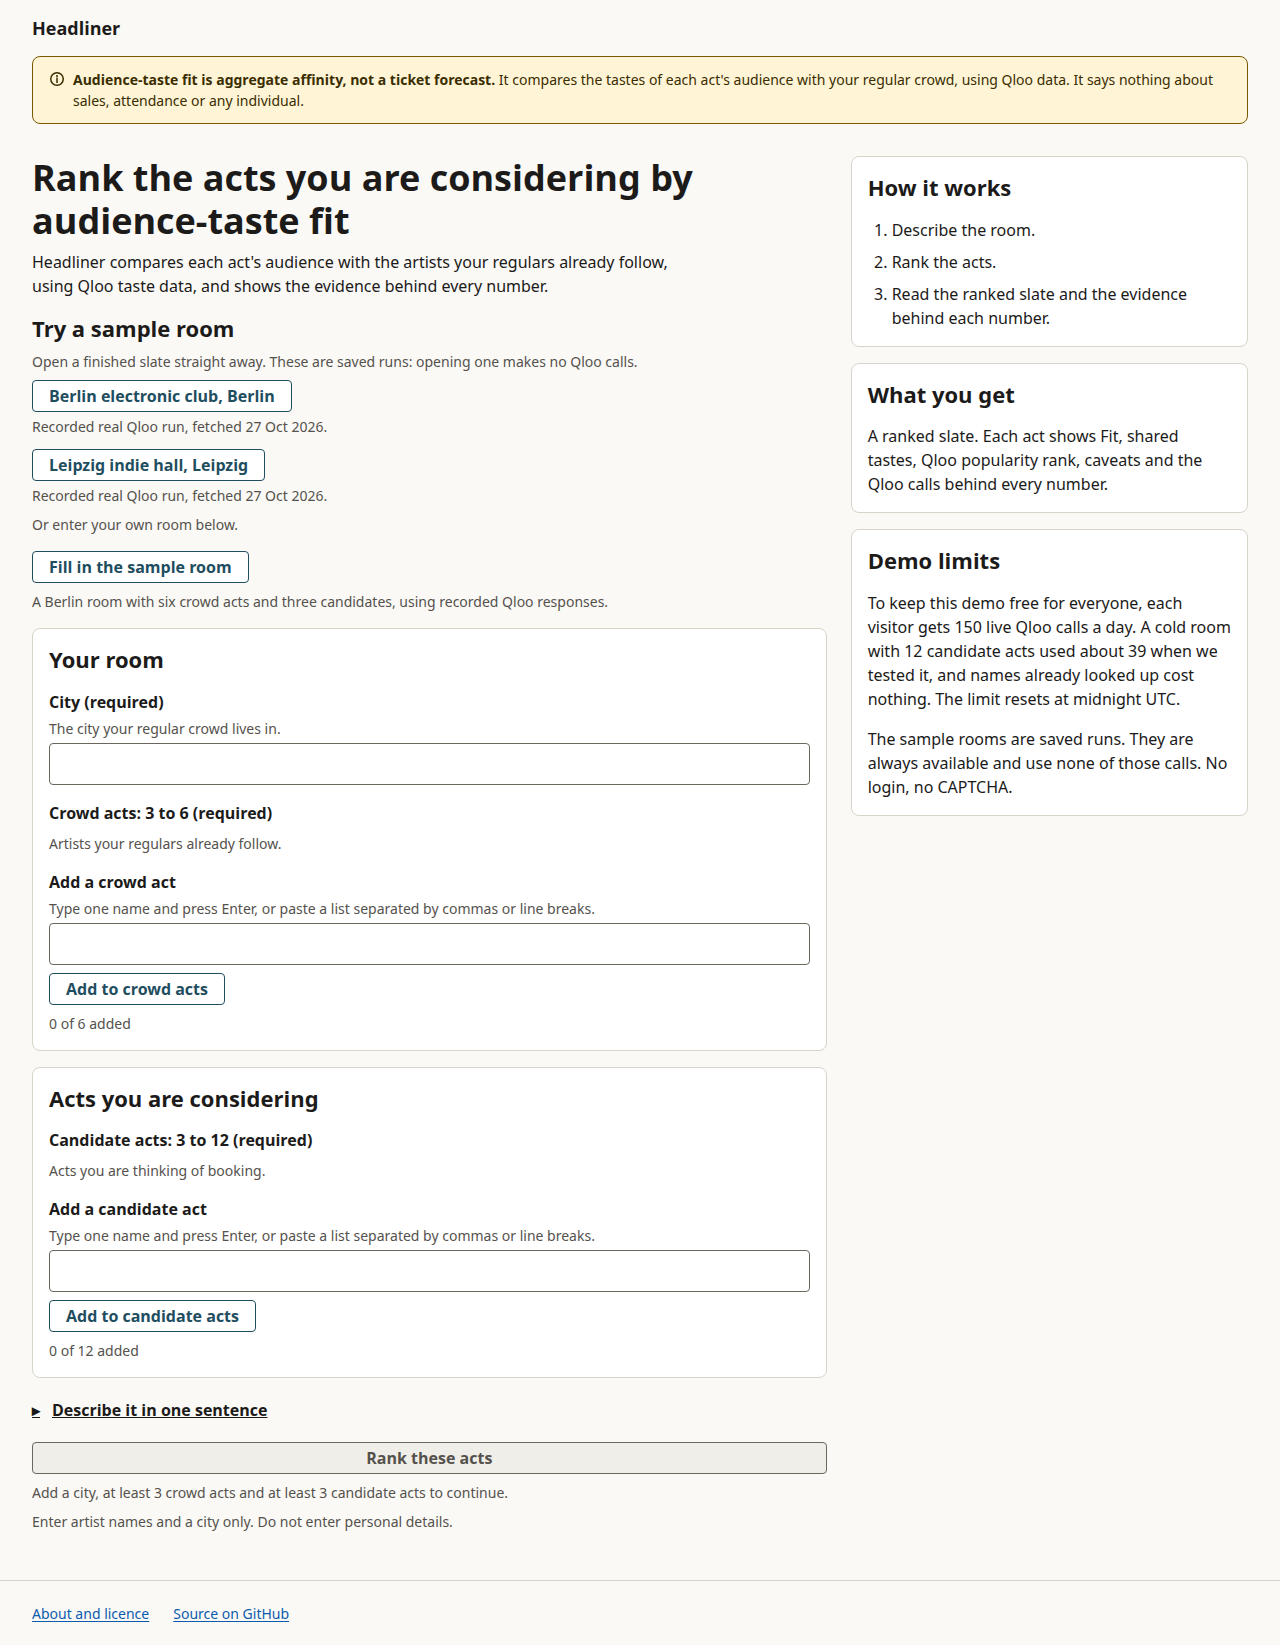
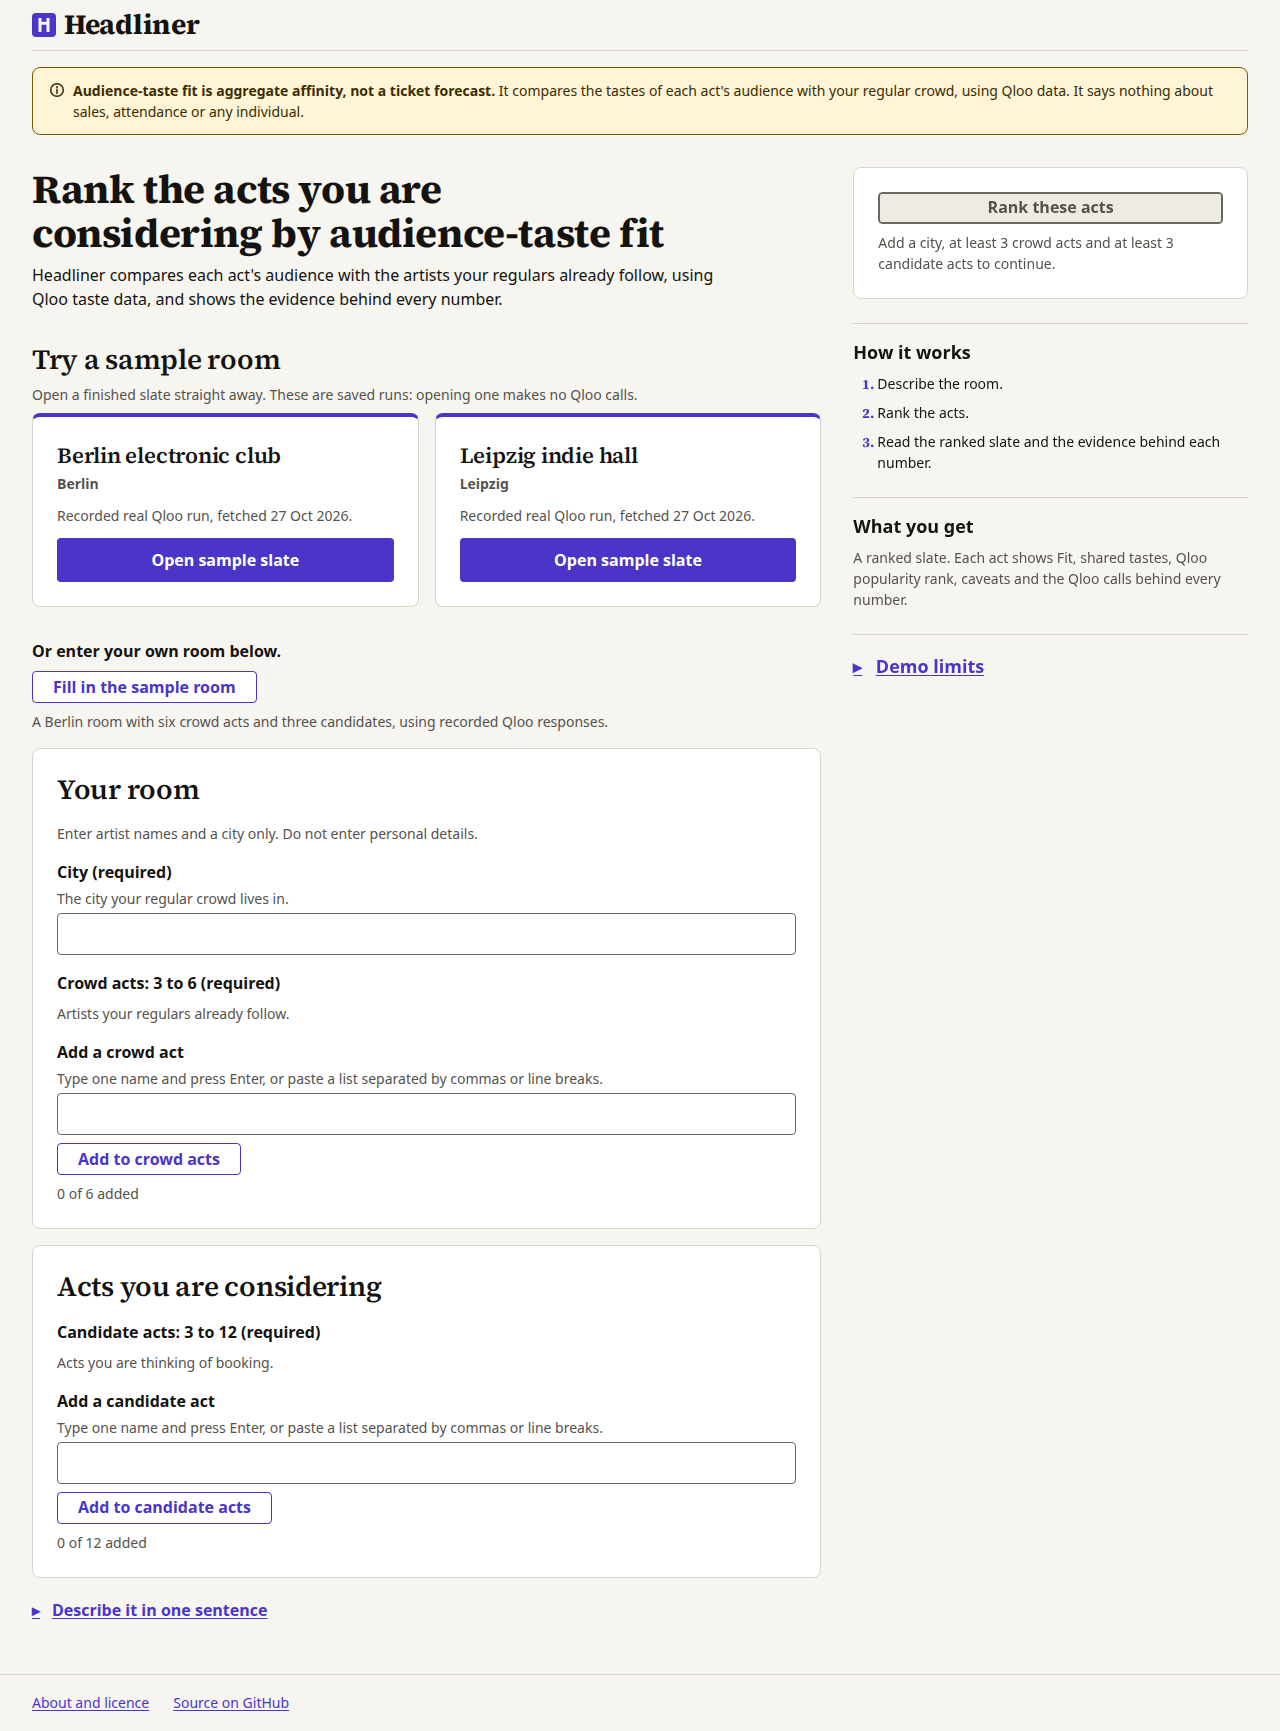
chore(docs): recapture README and Devpost screenshots for the reskin
16 images from production (light mode, 29 Oct 2026), empty-state from the
fixtures build as before; captions and alt text describe the new UI (rank
numerals, collapsed Explanation, sample-room cards). check-readme ok.

Changed region(s): [[0.0312, 0.0, 0.9688, 0.9921]]

diff --git a/README.md b/README.md
@@ -78,27 +78,27 @@ Live: <https://headliner-ai.vercel.app>. Two pre-warmed sample rooms open straig
 - <https://headliner-ai.vercel.app/s/sample-berlin-electronic> (Berlin, 6 crowd acts, 5 candidates)
 - <https://headliner-ai.vercel.app/s/sample-leipzig-indie> (Leipzig, 4 crowd acts, 5 candidates)
 
-Or type your own room, or describe it in one sentence. Screenshots below were captured on 28 Oct 2026 from the production site (live mode, light mode): the room setup page, the match confirmation (the sample Berlin room plus the typed name "Bjork"), and the stored sample Berlin slate with its Reality Club act detail and cities section. The empty-state screenshots are the exception: they come from a `DEMO_MODE=fixtures` build (they show the "Demo mode: recorded Qloo responses" badge) because no no-data act is stored on production.
+Or type your own room, or describe it in one sentence. Screenshots below were captured on 29 Oct 2026 from the production site (live mode, light mode): the room setup page, the match confirmation (the sample Berlin room plus the typed name "Bjork"), and the stored sample Berlin slate with its Reality Club act detail and cities section. The empty-state screenshots are the exception: they come from a `DEMO_MODE=fixtures` build (they show the "Demo mode: recorded Qloo responses" badge) because no no-data act is stored on production.
 
 **Room setup** ([1280 px](docs/screenshots/room-setup-1280.png), [390 px](docs/screenshots/room-setup-390.png))
 
-![Room setup: city, regular-crowd acts and candidate acts, with the aggregate-affinity banner at the top](docs/screenshots/room-setup-1280.png)
+![Room setup: the aggregate-affinity banner, two sample-room cards (Berlin electronic club, Leipzig indie hall) each with an Open sample slate button, and the empty form for city, crowd acts and candidate acts](docs/screenshots/room-setup-1280.png)
 
 **Match confirmation.** An ambiguous name ("Bjork") blocks ranking until the booker picks the Qloo match or leaves the act out ([390 px](docs/screenshots/match-confirmation-390.png)).
 
 ![Match confirmation: five Qloo artist matches for the typed name Bjork, each with its Qloo popularity rank, and a Summary card with the Rank button disabled](docs/screenshots/match-confirmation-1280.png)
 
-**Slate.** Ranked acts with Fit, shared tastes, Qloo popularity rank and caveats, beside the Qloo popularity order ([768 px](docs/screenshots/slate-768.png), [390 px](docs/screenshots/slate-390.png), [360 px](docs/screenshots/slate-360.png)).
+**Slate.** Ranked acts, each with a rank numeral, Fit, shared tastes count, Qloo popularity rank and the thin-data caveat, with the Qloo popularity order comparison and a collapsed Explanation section ([768 px](docs/screenshots/slate-768.png), [390 px](docs/screenshots/slate-390.png), [360 px](docs/screenshots/slate-360.png)).
 
-![Slate for the sample Berlin room: five ranked acts, the explanation, and the comparison with Qloo popularity rank order](docs/screenshots/slate-1280.png)
+![Slate for the sample Berlin room: five ranked act cards numbered 1 to 5 with Fit, shared tastes and Qloo popularity rank, a collapsed Explanation section below them, and the comparison with Qloo popularity rank order beside](docs/screenshots/slate-1280.png)
 
 **Act detail with the evidence trail** ([768 px](docs/screenshots/act-detail-768.png), [390 px](docs/screenshots/act-detail-390.png), [360 px](docs/screenshots/act-detail-360.png)).
 
-![Act detail for Reality Club: Fit, shared tastes, caveats, cities compared and the Qloo evidence rows](docs/screenshots/act-detail-1280.png)
+![Act detail for Reality Club: Fit, Qloo popularity rank and caveats cards, the explanation, shared tastes, other cities compared and the Qloo evidence trail](docs/screenshots/act-detail-1280.png)
 
 **Thin-data flag.** Cities with fewer than 15 heatmap cells are flagged and grouped apart; the act detail shows it for each city ([390 px](docs/screenshots/thin-data-390.png)).
 
-![Cities compared for the sample Berlin room: Jakarta and London ranked by mean affinity rank with cell counts, Berlin and Leipzig flagged as thin data](docs/screenshots/thin-data-1280.png)
+![Other cities compared for the sample Berlin room: Jakarta and London with mean affinity rank and cell counts, Berlin and Leipzig listed under Thin data: read with caution](docs/screenshots/thin-data-1280.png)
 
 **Empty state** (fixtures build, not production). An act Qloo has no usable data for says so and shows no number ([390 px](docs/screenshots/empty-state-390.png)).
 

diff --git a/docs/devpost.md b/docs/devpost.md
@@ -94,10 +94,10 @@ No login, account, CAPTCHA or API key is needed.
 
 ## Gallery images (`docs/screenshots/`)
 
-Captured on 28 Oct 2026 from the production site, https://headliner-ai.vercel.app (live mode, light mode): `/s/sample-berlin-electronic` for the slate, its Reality Club act page for the act detail, plus the room setup page and the match confirmation. No demo badge is shown. Only `empty-state-390.png` and `empty-state-1280.png` come from a `DEMO_MODE=fixtures` build (no no-data act is stored on production).
+Captured on 29 Oct 2026 from the production site, https://headliner-ai.vercel.app (live mode, light mode): `/s/sample-berlin-electronic` for the slate, its Reality Club act page for the act detail, plus the room setup page and the match confirmation. No demo badge is shown. Only `empty-state-390.png` and `empty-state-1280.png` come from a `DEMO_MODE=fixtures` build (no no-data act is stored on production).
 
-1. `docs/screenshots/slate-1280.png`: the ranked slate with the popularity-order comparison and thin-data flags (desktop).
-2. `docs/screenshots/act-detail-1280.png`: act detail with shared tastes and the evidence trail (desktop).
+1. `docs/screenshots/slate-1280.png`: the ranked act cards (rank numeral, Fit, shared tastes, popularity standing, thin-data caveat) with the popularity-order comparison and a collapsed Explanation (desktop).
+2. `docs/screenshots/act-detail-1280.png`: act detail with Fit, shared tastes, cities compared and the evidence trail (desktop).
 3. `docs/screenshots/slate-390.png`: the slate on a phone.
 4. `docs/screenshots/act-detail-390.png`: act detail on a phone.
 5. `docs/screenshots/slate-768.png` and `docs/screenshots/act-detail-768.png`: tablet width, optional.
